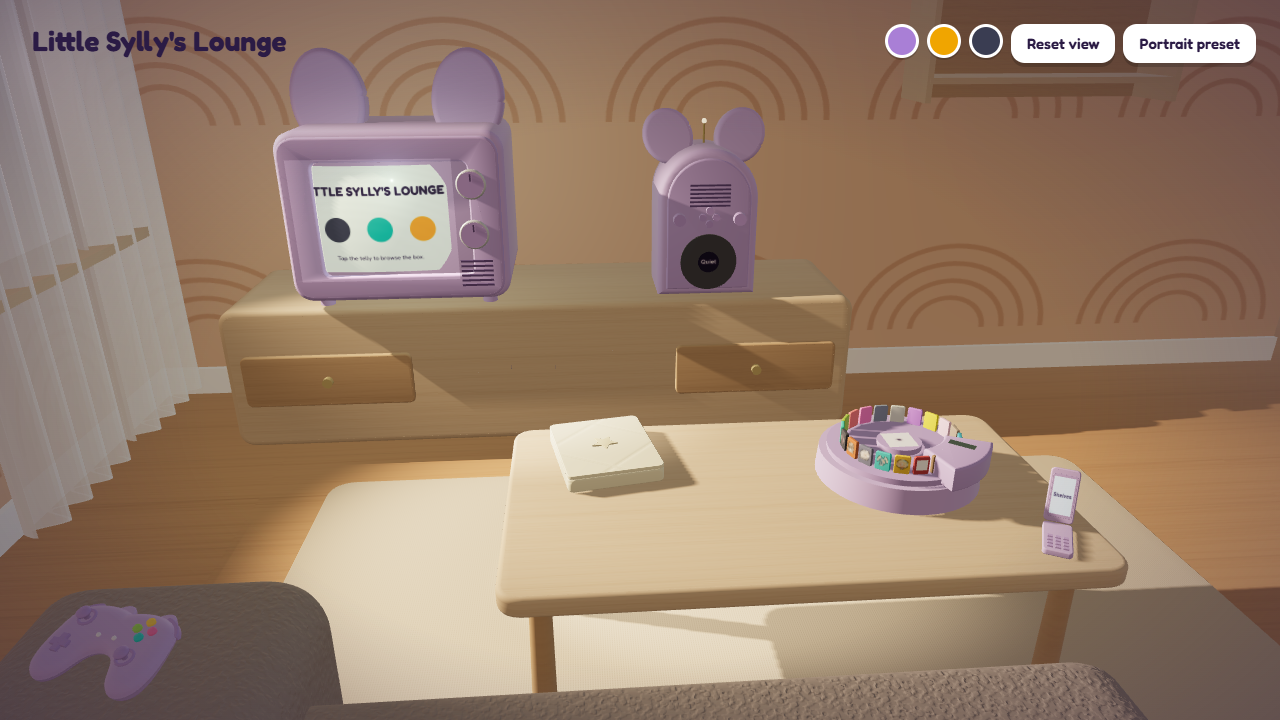
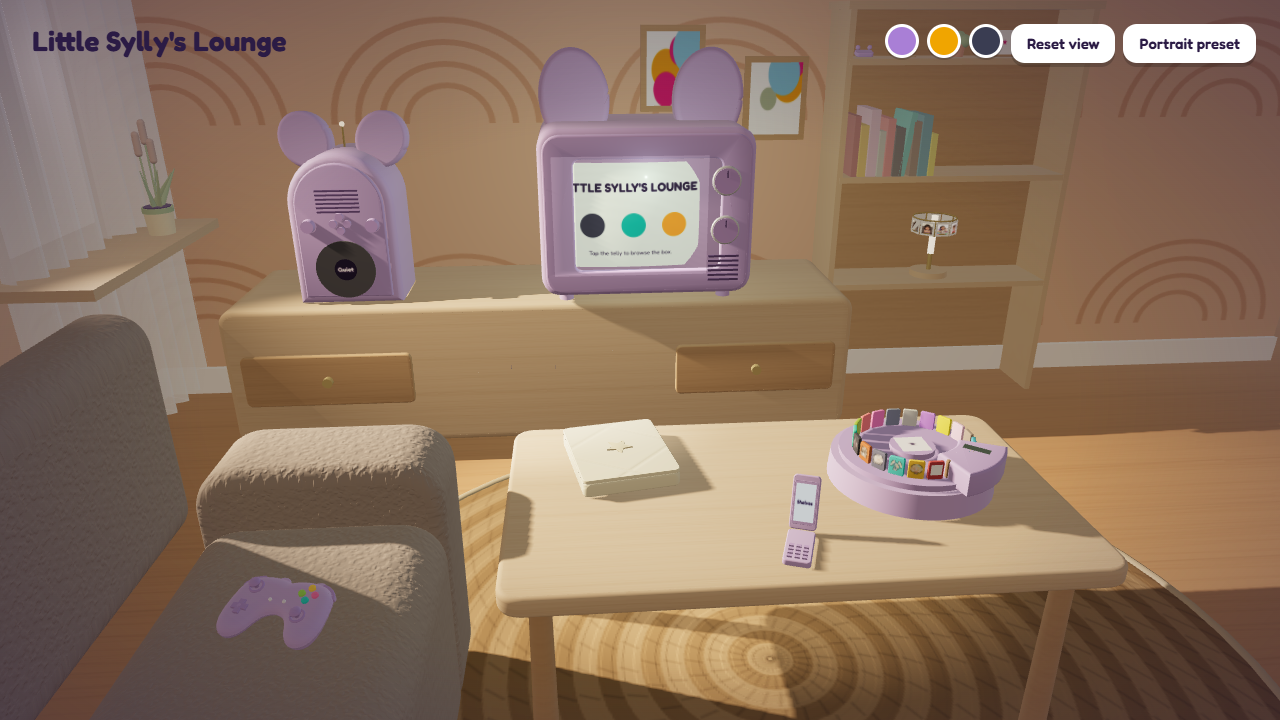
feat(premium): re-block step 3 — owner's layout round: L couch, centred telly, low shelf, round rug, sill cattails
Acts on the four adjustments from the wide-shot review:

1. The telly swaps with the jukebox and now sits dead on the camera's
   view axis, so the thing the room is about is the thing in the middle.
   The jukebox moves left to balance the window and the plant.
2. The couch becomes an L: a main run along the bottom of frame and a
   return up the left whose seat carries the controller. No more
   controller-on-an-arm.
3. The bookshelf drops to a low floor-standing unit with the photo lamp
   on its LOWEST board, books above, trinket easter eggs on top. It had
   to come down much further than planned: measuring the frustum, the
   frame's top edge crosses the back wall at only ~1.37 m, so the
   previously planned boards would have sat outside the shot.
4. The phone moves to the middle of the table, which is where the
   Shelves door and Scene B's hero both want it.

Plus the round braided-jute rug and the sill cattails. Cattails over the
fly-trap because the left side is read as a silhouette against a backlit
curtain, where three tall spikes survive and a blobby mass does not. The
sill had to protrude past the curtain line, or the drapes hang in front
of the plant and the flair never appears at all.

348 Node checks, 17 visual checks. Mean luma 123, contrast 2.5x.

diff --git a/wip/premium/prm-room.js b/wip/premium/prm-room.js
@@ -1,6 +1,6 @@
 // ═══════════════════════════════════════════════════════════════════════════
 // prm-room.js — Premium lounge: the shell. Walls, floor, rug, furniture, the
-// curtain, the floor lamp, two prints. Spec § 6. Everything is geometry; every
+// curtain, the window, the sill plant, two prints. Spec § 6 + the 2026-09-19 re-block. Everything is geometry; every
 // patterned surface is a canvas texture from prm-lib. Fixed warm neutrals —
 // never the player's colours (the props are what pop).
 // Pure: takes lib, touches no DOM. Nothing here is a pick target.
@@ -12,7 +12,7 @@
     /* The re-block (spec 2026-09-19 § 3.1): a corner about 3.2 m wide and 1.9 m
        deep, the bench a metre behind a table that sits right of centre, and a
        seat we are sitting on. Every prop reads its surface from here. */
-    const R = { floorY: 0, backZ: -1.55, leftX: -1.6, benchZ: -1.15, benchTopY: 0.52, tableTopY: 0.44, tableX: 0.35, tableZ: 0.05, armTopY: 0.58, seatTopY: 0.47, sillTopY: 0.68, sideTableTopY: 0.565 };
+    const R = { floorY: 0, backZ: -1.55, leftX: -1.6, benchZ: -1.15, benchTopY: 0.52, tableTopY: 0.44, tableX: 0.35, tableZ: 0.05, armTopY: 0.58, seatTopY: 0.47, sillTopY: 0.68 };
     const g = new THREE.Group(); g.name = 'room';
     const add = (name, geo, mat, pos, rot, o = {}) => {
       const m = new THREE.Mesh(geo, mat); m.name = name; m.position.set(pos[0], pos[1], pos[2]);
@@ -29,8 +29,9 @@
     add('cornice', new THREE.BoxGeometry(5.6, 0.06, 0.04), mats.skirting, [0.0, 3.17, R.backZ + 0.02]);
     add('floor', new THREE.PlaneGeometry(9, 9), mats.floor, [0.5, 0, 0.5], FLAT);
 
-    // rug — receives every table prop's contact shadow (round in Task 3)
-    add('rug', moulded(2.3, 1.7, 0.012, 0.08, { bevel: 0.004 }), mats.rug, [R.tableX, 0.006, R.tableZ], FLAT);
+    // rug — round braided jute under the table; receives every table prop's contact shadow
+    add('rug', new THREE.CylinderGeometry(1.05, 1.05, 0.012, 48), mats.rug, [R.tableX, 0.006, R.tableZ]);
+    add('rugEdge', new THREE.TorusGeometry(1.05, 0.012, 8, 64), mats.rugEdge, [R.tableX, 0.008, R.tableZ], FLAT);
 
     // coffee table (top surface = tableTopY), right of centre so it is not stacked under the telly
     add('tableTop', moulded(1.1, 0.62, 0.04, 0.05), mats.birch, [R.tableX, R.tableTopY - 0.02, R.tableZ], FLAT, { cast: true });
@@ -48,44 +49,96 @@
     add('deck', moulded(0.42, 0.1, 0.3, 0.015), mats.cream, [BX, 0.30, R.benchZ + 0.06], null, { cast: true });
     for (let i = 0; i < 4; i++) add('deckKey' + i, new THREE.BoxGeometry(0.03, 0.012, 0.02), mats.plum, [BX - 0.12 + i * 0.045, 0.315, R.benchZ + 0.215]);
 
-    // bookshelf unit, wall-mounted right of the bench; books + trinkets are props (prmBuildShelf)
-    const S = { x: 1.55, w: 0.85, d: 0.22, ys: [1.12, 1.48, 1.84], side: 0.02 }; S.z = R.backZ + S.d / 2;
-    add('shelfBack', new THREE.BoxGeometry(S.w, 0.9, 0.01), mats.birchDark, [S.x, 1.5, R.backZ + 0.005]);
-    add('shelfSideL', new THREE.BoxGeometry(S.side, 0.9, S.d), mats.birch, [S.x - S.w / 2, 1.5, S.z], null, { cast: true });
-    add('shelfSideR', new THREE.BoxGeometry(S.side, 0.9, S.d), mats.birch, [S.x + S.w / 2, 1.5, S.z], null, { cast: true });
+    /* Bookshelf: a LOW floor-standing unit right of the bench. The frame's top edge crosses the
+       back wall at only ~1.37 m from this camera, so a wall-mounted unit at chest height is simply
+       out of shot — every board has to live below that. The photo-carousel lamp takes the lowest
+       board (owner, 19 Sep 2026) where it is nearest the eye and a real tap target; books sit above
+       it and the trinket easter eggs top out the unit. */
+    const S = { x: 1.25, w: 0.80, d: 0.22, ys: [0.42, 0.80, 1.18], side: 0.02, h: 1.35 }; S.z = R.backZ + S.d / 2;
+    add('shelfBack', new THREE.BoxGeometry(S.w, S.h, 0.01), mats.birchDark, [S.x, S.h / 2, R.backZ + 0.005]);
+    add('shelfSideL', new THREE.BoxGeometry(S.side, S.h, S.d), mats.birch, [S.x - S.w / 2, S.h / 2, S.z], null, { cast: true });
+    add('shelfSideR', new THREE.BoxGeometry(S.side, S.h, S.d), mats.birch, [S.x + S.w / 2, S.h / 2, S.z], null, { cast: true });
     S.ys.forEach((y, i) => add('shelfBoard' + i, new THREE.BoxGeometry(S.w, 0.02, S.d), mats.birch, [S.x, y, S.z], null, { cast: true }));
+    add('shelfTop', new THREE.BoxGeometry(S.w + 0.04, 0.025, S.d + 0.02), mats.birch, [S.x, S.h, S.z], null, { cast: true });
 
-    // side table (top surface = sideTableTopY) — carries the photo-carousel lamp
-    add('sideTableTop', new THREE.CylinderGeometry(0.22, 0.22, 0.03, 32), mats.birch, [-1.7, R.sideTableTopY - 0.015, -2.1], null, { cast: true });
-    [0, 1, 2].forEach(i => { const a = i * 2 * Math.PI / 3;
-      add('sideTableLeg' + i, new THREE.CylinderGeometry(0.015, 0.018, 0.55, 12), mats.birchDark,
-          [-1.7 + Math.sin(a) * 0.15, 0.27, -2.1 + Math.cos(a) * 0.15], [Math.cos(a) * 0.12, 0, -Math.sin(a) * 0.12]); });
-
-    // the couch we are sitting on: a seat cushion along the bottom of frame (top = seatTopY) and the arm
-    // it belongs to, left of the table, reaching ahead of the seat so its front shows bottom-left
-    add('seat', moulded(1.3, 0.47, 1.0, 0.09), mats.fabric, [0.07, R.seatTopY - 0.235, 1.08], null, { cast: true });
-    add('couchArm', moulded(0.4, 0.58, 0.95, 0.09), mats.fabric, [-0.62, R.armTopY - 0.29, 0.925], null, { cast: true });
+    /* The L-shaped couch we are sitting on (owner, 19 Sep 2026). The MAIN run lies along the bottom
+       of frame — we sit on it, so its back is behind the camera and never seen. The RETURN runs up
+       the left; its seat carries the controller and its raised back is the frame's left border,
+       which is what pushes the controller in off the edge rather than leaving it stranded. */
+    const SEAT_H = 0.47, BACK_H = 0.41;
+    add('seat', moulded(1.5, SEAT_H, 0.95, 0.09), mats.fabric, [0.15, R.seatTopY - SEAT_H / 2, 1.30], null, { cast: true });
+    add('seatBack', moulded(1.5, BACK_H, 0.16, 0.06), mats.fabric, [0.15, R.seatTopY + BACK_H / 2, 1.87], null, { cast: true });
+    add('seatReturn', moulded(0.44, SEAT_H, 0.95, 0.09), mats.fabric, [-0.52, R.seatTopY - SEAT_H / 2, 0.62], null, { cast: true });
+    add('seatReturnBack', moulded(0.13, BACK_H, 0.95, 0.06), mats.fabric, [-0.805, R.seatTopY + BACK_H / 2, 0.62], null, { cast: true });
+    // the L's outer arm, capping the return's far end
+    add('couchArm', moulded(0.44, 0.58, 0.20, 0.09), mats.fabric, [-0.52, R.armTopY - 0.29, 0.06], null, { cast: true });
 
     // window on the LEFT wall — the visible source of the key. Centre sits toward the back so the
     // whole opening is in frame from the couch. Sill = a birch ledge the plant sits on (step 3).
-    const WZ = -0.90, WY = 1.25, WW = 0.75, WH = 1.1;
+    const WZ = -1.05, WY = 1.25, WW = 0.72, WH = 1.1;
     add('window', new THREE.PlaneGeometry(WW, WH), mats.window, [R.leftX + 0.005, WY, WZ], [0, Math.PI / 2, 0]);
-    add('sill', new THREE.BoxGeometry(0.16, 0.03, 0.9), mats.birch, [R.leftX + 0.08, R.sillTopY - 0.015, WZ], null, { cast: true });
+    /* The sill protrudes PAST the curtain line into the room, so the plant stands in front of the
+       drapes and reads as a silhouette against them. Sitting it flush with the wall put the curtain
+       in front of the plant and the whole left-side flair simply never appeared in frame. */
+    add('sill', new THREE.BoxGeometry(0.34, 0.03, 0.82), mats.birch, [R.leftX + 0.17, R.sillTopY - 0.015, WZ], null, { cast: true });
     /* Drawn, in two halves, a 0.10 m slit at about 40 % of the width (spec D5). The halves do NOT
        cast: the sun light passes through the curtain as a real drawn curtain glows and diffuses —
        the slit's bright stripe is its own narrow light in prm-scene.js, not a shadow cut-out. */
-    const CUR_W = 1.0, GAP = 0.10, halfW = (CUR_W - GAP) / 2, gapAt = WZ - CUR_W / 2 + CUR_W * 0.40;
+    const CUR_W = 0.88, GAP = 0.10, halfW = (CUR_W - GAP) / 2, gapAt = WZ - CUR_W / 2 + CUR_W * 0.40;
     add('curtainL', prmCurtainGeometry(lib, halfW, 2.2, 4), mats.curtain, [R.leftX + 0.12, 1.15, gapAt - GAP / 2 - halfW / 2], [0, Math.PI / 2, 0], { cast: false });
     add('curtainR', prmCurtainGeometry(lib, halfW, 2.2, 4), mats.curtain, [R.leftX + 0.12, 1.15, gapAt + GAP / 2 + halfW / 2], [0, Math.PI / 2, 0], { cast: false });
+
+    // the cattails on the sill (owner, 19 Sep 2026) — furniture: no pick id, no design role
+    const plant = prmBuildPlant(lib); plant.position.set(R.leftX + 0.25, R.sillTopY, WZ - 0.20); g.add(plant);
 
     // two prints on the shelf wall
     const print = (id, x, y, seed) => {
       add('print' + id, new THREE.BoxGeometry(0.22, 0.28, 0.02), mats.birchDark, [x, y, R.backZ + 0.01]);
       add('print' + id + 'Face', new THREE.PlaneGeometry(0.18, 0.24), new THREE.MeshStandardMaterial({ map: tex.abstract(seed), roughness: .9 }), [x, y, R.backZ + 0.021]);
     };
-    print('A', 1.35, 2.4, 1); print('B', 1.8, 2.3, 5);
+    print('A', 0.30, 1.15, 1); print('B', 0.66, 1.05, 5);
 
     g.userData.prmRoom = R; g.userData.prmShelf = S;
+    return g;
+  }
+
+  /* The sill plant: cattails. A cylinder pot with a collar, arcing blades, and three fuzzy heads
+     on thin stems. Chosen over the fly-trap for the same reason the whole left side exists — it is
+     read as a SILHOUETTE against a backlit curtain, and three tall spikes survive that where a
+     blobby mass becomes a smudge. Fixed colours, no pick id: it is furniture.
+     Group origin = the pot's base, so the caller drops it straight onto sillTopY. */
+  function prmBuildPlant(lib) {
+    const { THREE, mats } = lib; const g = new THREE.Group(); g.name = 'plant';
+    const mesh = (name, geo, mat, pos, rot, cast = true) => {
+      const m = new THREE.Mesh(geo, mat); m.name = name; m.position.set(pos[0], pos[1], pos[2]);
+      if (rot) m.rotation.set(rot[0], rot[1], rot[2]);
+      m.castShadow = cast; m.receiveShadow = true; g.add(m); return m;
+    };
+    const PH = 0.085;
+    mesh('pot', new THREE.CylinderGeometry(0.043, 0.038, PH, 24), mats.potCream, [0, PH / 2, 0]);
+    mesh('potCollar', new THREE.CylinderGeometry(0.045, 0.045, 0.016, 24), mats.leaf, [0, PH - 0.008, 0]);
+    mesh('soil', new THREE.CylinderGeometry(0.04, 0.04, 0.008, 20), mats.plum, [0, PH - 0.002, 0], null, false);
+
+    // blades — flattened tapered cones fanning out and arcing over
+    const bladeGeo = new THREE.CylinderGeometry(0.0015, 0.011, 0.13, 6); bladeGeo.translate(0, 0.065, 0); bladeGeo.scale(1, 1, 0.3);
+    for (let i = 0; i < 5; i++) {
+      const a = i / 5 * Math.PI * 2 + 0.5, lean = 0.32 + (i % 3) * 0.16;
+      mesh('blade' + i, bladeGeo, mats.leaf, [Math.cos(a) * 0.012, PH, Math.sin(a) * 0.012],
+           [Math.sin(a) * lean, -a, -Math.cos(a) * lean]);
+    }
+    // three cattails: a thin stem with a fuzzy head, each a different height
+    const headGeo = new THREE.CylinderGeometry(0.0105, 0.0105, 0.055, 12);
+    const capGeo = new THREE.SphereGeometry(0.0105, 12, 8);
+    [[0.0, 0.20], [-0.018, 0.165], [0.019, 0.145]].forEach(([dx, len], i) => {
+      const dz = i * 0.008 - 0.008;
+      mesh('stem' + i, new THREE.CylinderGeometry(0.0025, 0.003, len, 6), mats.leaf, [dx, PH + len / 2, dz], [0, 0, -dx * 1.6], false);
+      const head = mesh('cattail' + i, headGeo, mats.cattail, [dx * 1.16, PH + len + 0.026, dz]);
+      // rounded ends, so the head reads as a fuzzy sausage rather than a cut cylinder
+      [['capA', 0.0275], ['capB', -0.0275]].forEach(([n, y]) => {
+        const cap = new THREE.Mesh(capGeo, mats.cattail); cap.name = n; cap.position.y = y;
+        cap.castShadow = true; head.add(cap);
+      });
+    });
     return g;
   }
 
@@ -105,7 +158,7 @@
     return geo;
   }
 
-  const api = { prmBuildRoom, prmCurtainGeometry };
+  const api = { prmBuildRoom, prmCurtainGeometry, prmBuildPlant };
   if (typeof window !== 'undefined') window.PrmRoom = api;
   if (typeof module !== 'undefined') module.exports = api;
 })();

diff --git a/wip/premium/verify-prm-props.js b/wip/premium/verify-prm-props.js
@@ -58,9 +58,10 @@ ok(lib.THREE === THREE, 'lib carries the injected THREE');
 ['wood', 'wallpaper', 'weave', 'boucle', 'quilt'].forEach(k => {
   const t = lib.tex[k](); ok(t && t.isTexture && t.wrapS === THREE.RepeatWrapping, `tex.${k} returns a repeating texture`);
 });
+['braid', 'braidBump'].forEach(k => ok(lib.tex[k]().isTexture, `tex.${k} returns a texture`));
 ok(lib.tex.label('Hello').isTexture, 'tex.label returns a texture');
 ok(lib.tex.abstract(3).isTexture, 'tex.abstract returns a texture');
-['birch', 'birchDark', 'floor', 'wall', 'rug', 'fabric', 'cream', 'skirting', 'plum', 'black', 'chrome', 'brass', 'curtain', 'window', 'yellow', 'yellowDark', 'paper', 'sleeve']
+['birch', 'birchDark', 'floor', 'wall', 'rug', 'rugEdge', 'fabric', 'cream', 'skirting', 'plum', 'black', 'chrome', 'brass', 'curtain', 'window', 'yellow', 'yellowDark', 'paper', 'sleeve', 'potCream', 'leaf', 'cattail']
   .forEach(k => ok(lib.mats[k] && lib.mats[k].isMaterial, `mats.${k} exists`));
 ok(lib.mats.emissive('#ff0000', 2).emissiveIntensity === 2, 'mats.emissive takes an intensity');
 {
@@ -90,15 +91,29 @@ eq(room.name, 'room', 'room group is named');
 const roomNames = new Set(); room.traverse(o => { if (o.name) roomNames.add(o.name); });
 ['wallBack', 'wallLeft', 'skirtingBack', 'skirtingLeft', 'cornice', 'floor', 'rug', 'tableTop', 'tableLeg0', 'tableLeg3',
  'bench', 'benchDrawerL', 'benchDrawerR', 'benchKnobL', 'benchKnobR', 'deck', 'deckKey3', 'shelfBack', 'shelfSideL', 'shelfSideR',
- 'shelfBoard0', 'shelfBoard1', 'shelfBoard2', 'sideTableTop', 'sideTableLeg2', 'couchArm', 'seat', 'window', 'curtainL', 'curtainR',
- 'sill', 'printA', 'printAFace', 'printB', 'printBFace']
+ 'shelfBoard0', 'shelfBoard1', 'shelfBoard2', 'shelfTop', 'couchArm', 'seat', 'seatBack', 'seatReturn', 'seatReturnBack',
+ 'rugEdge', 'plant', 'window', 'curtainL', 'curtainR', 'sill', 'printA', 'printAFace', 'printB', 'printBFace']
   .forEach(n => ok(roomNames.has(n), `room has ${n}`));
 {
+  const R = room.userData.prmRoom;
   let picks = 0; room.traverse(o => { if (o.userData.prmId) picks++; });
   eq(picks, 0, 'nothing in the room shell is a pick target');
   const rug = room.getObjectByName('rug'); ok(rug.receiveShadow, 'rug receives shadow');
+  ok(rug.geometry.type === 'CylinderGeometry', 'rug is round');
+  { const rb = new THREE.Box3().setFromObject(rug); near((rb.min.x + rb.max.x) / 2, R.tableX, 0.02, 'rug is centred under the table'); }
+  ok(!roomNames.has('sideTableTop'), 'the side table is gone');
+  const plant = room.getObjectByName('plant'); ok(plant && plant.isGroup, 'plant is a group on the shell');
+  { let blades = 0, heads = 0;
+    plant.traverse(o => { if (/^blade\d+$/.test(o.name)) blades++; if (/^cattail\d+$/.test(o.name)) heads++; });
+    ok(blades >= 4, `plant has blades (${blades})`); eq(heads, 3, 'three cattail heads');
+    ok(plant.getObjectByName('pot') && plant.getObjectByName('soil'), 'plant has a pot and soil');
+    const pb = new THREE.Box3().setFromObject(plant);
+    near(pb.min.y, R.sillTopY, 0.01, 'plant rests on the sill');
+    ok(pb.min.x > R.leftX && pb.max.x < R.leftX + 0.35, 'plant sits on the sill, not in the wall');
+    ok(pb.max.y - pb.min.y > 0.16, 'the cattails stand tall enough to read as a silhouette');
+    let painted = 0; plant.traverse(o => { if (o.isMesh && o.material.userData.prmRole) painted++; });
+    eq(painted, 0, 'the plant is furniture - no design role'); }
   const floor = room.getObjectByName('floor'); ok(floor.receiveShadow, 'floor receives shadow');
-  const R = room.userData.prmRoom;
   ['floorY', 'backZ', 'leftX', 'benchZ', 'benchTopY', 'tableTopY', 'tableX', 'tableZ', 'armTopY', 'seatTopY'].forEach(k => ok(typeof R[k] === 'number', `prmRoom.${k} is a number`));
   near(R.benchTopY, 0.52, 0.001, 'bench top height'); near(R.tableTopY, 0.44, 0.001, 'table top height');
   // the re-block (spec 2026-09-19 § 3.1): a corner, not a hall
@@ -108,15 +123,29 @@ const roomNames = new Set(); room.traverse(o => { if (o.name) roomNames.add(o.na
   ok(R.tableX > 0.2, `table is right of centre (tableX ${R.tableX})`);
   ok(R.seatTopY > R.tableTopY && R.seatTopY < R.armTopY, 'seat cushion sits between table top and arm top');
   const S = room.userData.prmShelf; eq(S.ys.length, 3, 'three shelf boards');
+  ok(S.ys[2] < 1.25, `the top board is inside the frame (ys[2] ${S.ys[2]})`);
+  ok(S.ys[0] < 0.55, `the lowest board is low enough to read (ys[0] ${S.ys[0]})`);
+  { const unit = new THREE.Box3().setFromObject(room.getObjectByName('shelfSideL'));
+    ok(unit.min.y < 0.05, 'the shelf unit stands on the floor'); }
   room.updateMatrixWorld(true);
   const bb = new THREE.Box3().setFromObject(room.getObjectByName('tableTop'));
   near(bb.max.y, R.tableTopY, 0.001, 'tableTop surface equals prmRoom.tableTopY');
   const arm = new THREE.Box3().setFromObject(room.getObjectByName('couchArm'));
   near(arm.max.y, R.armTopY, 0.002, 'couchArm top equals prmRoom.armTopY');
+  // the L-shaped couch (owner, 19 Sep 2026): a main run along the bottom of frame and a short
+  // return up the left, whose seat carries the controller and whose back is the frame's left border
   const seat = new THREE.Box3().setFromObject(room.getObjectByName('seat'));
   near(seat.max.y, R.seatTopY, 0.002, 'seat top equals prmRoom.seatTopY');
   ok(seat.min.z > R.tableZ + 0.31 - 0.02, 'seat front does not run under the table');
-  ok(arm.min.z < seat.min.z, 'the arm reaches ahead of the seat (a real couch arm)');
+  const ret = new THREE.Box3().setFromObject(room.getObjectByName('seatReturn'));
+  near(ret.max.y, R.seatTopY, 0.002, 'the return seat is the same height as the main run');
+  ok(ret.max.x < seat.max.x && ret.min.z < seat.min.z, 'the return runs up the LEFT and reaches further back than the main run (an L)');
+  ok(ret.max.z > seat.min.z, 'the two runs meet at the corner');
+  const retBack = new THREE.Box3().setFromObject(room.getObjectByName('seatReturnBack'));
+  ok(retBack.max.x <= ret.min.x + 0.01, 'the return back sits outside its seat, on the left');
+  ok(retBack.min.y >= R.seatTopY - 0.01 && retBack.max.y > R.seatTopY + 0.3, 'the return back rises well above the seat');
+  const mainBack = new THREE.Box3().setFromObject(room.getObjectByName('seatBack'));
+  ok(mainBack.min.z > seat.max.z - 0.02, 'the main run back sits behind it (behind the camera)');
   // the window is on the LEFT wall, drawn, with a slit (spec 2026-09-19 § 3.2, D4/D5)
   ok(typeof R.sillTopY === 'number', 'prmRoom.sillTopY is a number');
   ok(!roomNames.has('floorLampShade') && !roomNames.has('floorLampStem'), 'the floor lamp is gone');
@@ -268,6 +297,12 @@ section('lamp-shelf');
   const shelf = built.shelfContents; ok(shelf, 'shelf contents build');
   let books = 0, trinkets = 0, picks = 0; shelf.traverse(o => { if (/^book\d+$/.test(o.name)) books++; if (/^trinket-/.test(o.name)) trinkets++; if (o.userData.prmId) picks++; });
   eq(books, 10, 'ten books'); eq(trinkets, 5, 'five unlocked trinkets'); eq(picks, 0, 'nothing on the shelf is interactive');
+  { const SS = room.userData.prmShelf;
+    const bookBox = new THREE.Box3().setFromObject(shelf.getObjectByName('book0'));
+    const trinketBox = new THREE.Box3().setFromObject(shelf.getObjectByName('trinket-mini-controller'));
+    near(bookBox.min.y, SS.ys[1] + 0.01, 0.02, 'books stand on the MIDDLE board');
+    near(trinketBox.min.y, SS.ys[2] + 0.01, 0.03, 'trinkets are easter eggs on the TOP board');
+    near(PrmProps.PRM_PLACES.lamp.pos[1], SS.ys[0] + 0.01, 0.02, 'the photo lamp sits on the LOWEST board, where it reads'); }
   const locked = PrmProps.prmBuildShelf(lib, PrmProps.PRM_TRINKETS_V1.map((t, i) => Object.assign({}, t, { unlocked: i !== 2 })), GAMES, room.userData.prmShelf);
   let t2 = 0; locked.traverse(o => { if (/^trinket-/.test(o.name)) t2++; }); eq(t2, 4, 'a locked trinket leaves its slot empty');
   const S = room.userData.prmShelf; shelf.updateMatrixWorld(true); const bb = new THREE.Box3().setFromObject(shelf);
@@ -288,17 +323,24 @@ section('contracts');
   // footprints: each prop, placed, sits inside its surface's region (spec § 14 check 1)
   const place = (id) => { const g = built[id], p = PrmProps.PRM_PLACES[id]; g.position.set(...p.pos); if (p.rot) g.rotation.set(...p.rot); g.updateMatrixWorld(true); return new THREE.Box3().setFromObject(g); };
   const inside = (bb, r) => bb.min.x >= r.x[0] && bb.max.x <= r.x[1] && bb.min.z >= r.z[0] && bb.max.z <= r.z[1] && bb.min.y >= r.y[0] - 0.01;
-  const R = room.userData.prmRoom;
+  const R = room.userData.prmRoom, S = room.userData.prmShelf;
   const REGIONS = {
-    tv:        { x: [R.tableX - 1.30, R.tableX - 0.50], z: [R.benchZ - 0.30, R.benchZ + 0.30], y: [R.benchTopY, 1.5] },
-    jukebox:   { x: [R.tableX - 0.30, R.tableX + 0.30], z: [R.benchZ - 0.30, R.benchZ + 0.30], y: [R.benchTopY, 1.5] },
+    tv:        { x: [R.tableX - 0.60, R.tableX + 0.30], z: [R.benchZ - 0.30, R.benchZ + 0.30], y: [R.benchTopY, 1.5] },
+    jukebox:   { x: [R.tableX - 1.50, R.tableX - 0.60], z: [R.benchZ - 0.30, R.benchZ + 0.30], y: [R.benchTopY, 1.5] },
     dial:      { x: [R.tableX - 0.57, R.tableX + 0.57], z: [R.tableZ - 0.33, R.tableZ + 0.33], y: [R.tableTopY, 0.8] },
     binder:    { x: [R.tableX - 0.57, R.tableX + 0.57], z: [R.tableZ - 0.33, R.tableZ + 0.33], y: [R.tableTopY, 0.8] },
     phone:     { x: [R.tableX - 0.57, R.tableX + 0.57], z: [R.tableZ - 0.33, R.tableZ + 0.33], y: [R.tableTopY, 0.8] },
-    controller:{ x: [-1.05, -0.35], z: [ 0.30,  1.10], y: [R.armTopY, 1.0] },
-    lamp:      { x: [-1.95, -1.45], z: [-2.35, -1.85], y: [R.sideTableTopY, 1.0] },
+    controller:{ x: [-0.85, -0.15], z: [ 0.20,  0.70], y: [R.seatTopY, 1.0] },
+    lamp:      { x: [S.x - 0.30, S.x + 0.30], z: [R.backZ, R.backZ + 0.32], y: [S.ys[0], 1.0] },
   };
   Object.entries(REGIONS).forEach(([id, r]) => { const bb = place(id); ok(inside(bb, r), `${id} sits inside its surface region (x ${bb.min.x.toFixed(2)}..${bb.max.x.toFixed(2)}, z ${bb.min.z.toFixed(2)}..${bb.max.z.toFixed(2)}, y ${bb.min.y.toFixed(2)})`); });
+  // the telly is the focus: centred horizontally, the jukebox left of it (owner, 19 Sep 2026)
+  { const tvB = place('tv'), jbB = place('jukebox');
+    const tvMid = (tvB.min.x + tvB.max.x) / 2, jbMid = (jbB.min.x + jbB.max.x) / 2;
+    ok(Math.abs(tvMid - 0.16) < 0.18, `the telly sits on the camera view axis (mid x ${tvMid.toFixed(2)})`);
+    ok(jbMid < tvMid - 0.5, 'the jukebox sits well to the left of the telly'); }
+  { const ph = new THREE.Box3().setFromObject(built['phone']);
+    ok(Math.abs((ph.min.x + ph.max.x) / 2 - R.tableX) < 0.22, 'the phone sits near the middle of the table (the Shelves door)'); }
   // table props must not overlap each other
   const boxes = ['dial', 'binder', 'phone'].map(id => [id, new THREE.Box3().setFromObject(built[id])]);
   for (let i = 0; i < boxes.length; i++) for (let j = i + 1; j < boxes.length; j++) ok(!boxes[i][1].intersectsBox(boxes[j][1]), `${boxes[i][0]} and ${boxes[j][0]} do not overlap`);

diff --git a/wip/premium/prm-lib.js b/wip/premium/prm-lib.js
@@ -70,6 +70,28 @@
         for (let i = 0; i < 400; i++) { x.fillStyle = r() > .5 ? '#a0a0a0' : '#606060'; x.beginPath(); x.arc(r() * 128, r() * 128, 2 + r() * 3, 0, 7); x.fill(); }
         return wrap(c, rx, ry, true);
       },
+      /* A round braided rug: concentric rope rings with a diagonal twist hatch. Drawn once on a
+         square canvas; a cylinder cap's UVs are planar, so the centre lands under the table. */
+      braid(base = '#a88a63', tone = '#94764f', size = 512, rings = 22) {
+        const c = makeCanvas(size, size), x = c.getContext('2d'), cx = size / 2, step = (size / 2) / rings;
+        x.fillStyle = base; x.fillRect(0, 0, size, size);
+        for (let i = 0; i < rings; i++) {
+          const r = (i + 0.5) * step;
+          x.strokeStyle = i % 2 ? tone : base; x.lineWidth = step * 0.9; x.beginPath(); x.arc(cx, cx, r, 0, Math.PI * 2); x.stroke();
+          x.strokeStyle = 'rgba(0,0,0,0.10)'; x.lineWidth = 1.5;
+          const n = Math.max(24, Math.round(r / 3));
+          for (let k = 0; k < n; k++) { const a = k / n * Math.PI * 2;
+            x.beginPath(); x.moveTo(cx + Math.cos(a) * (r - step * 0.4), cx + Math.sin(a) * (r - step * 0.4));
+            x.lineTo(cx + Math.cos(a + 0.06) * (r + step * 0.4), cx + Math.sin(a + 0.06) * (r + step * 0.4)); x.stroke(); }
+        }
+        return flat(c);
+      },
+      braidBump(size = 512, rings = 22) {
+        const c = makeCanvas(size, size), x = c.getContext('2d'), cx = size / 2, step = (size / 2) / rings;
+        x.fillStyle = '#808080'; x.fillRect(0, 0, size, size);
+        for (let i = 0; i < rings; i++) { x.strokeStyle = i % 2 ? '#a8a8a8' : '#585858'; x.lineWidth = step * 0.5; x.beginPath(); x.arc(cx, cx, (i + 0.5) * step, 0, Math.PI * 2); x.stroke(); }
+        const t = new THREE.CanvasTexture(c); t.encoding = THREE.LinearEncoding; return t;
+      },
       quilt(rx = 4, ry = 5) {
         const c = makeCanvas(128, 128), x = c.getContext('2d');
         x.fillStyle = '#909090'; x.fillRect(0, 0, 128, 128); x.strokeStyle = '#404040'; x.lineWidth = 5;
@@ -109,7 +131,14 @@
       wall:       std({ map: tex.wallpaper(), roughness: .95 }),
       /* Braided-jute oat (spec 2026-09-19 § 3.2): the soft oat it replaced was still a
          bright field across the bottom third. Round geometry + braid texture in step 3. */
-      rug:        std({ color: '#a88a63', bumpMap: tex.weave(), bumpScale: .004, roughness: .95 }),
+      rug:        std({ map: tex.braid(), bumpMap: tex.braidBump(), bumpScale: .006, roughness: .95 }),
+      rugEdge:    std({ color: '#8d7148', roughness: .95 }),
+      /* The sill cattails — fixed furniture colours (never a design role). A warm pot and sage
+         blades keep the plant out of the props' hue space, so the only saturated things in frame
+         are still the player's own. */
+      potCream:   std({ color: '#e8ce8e', roughness: .75 }),
+      leaf:       std({ color: '#7f9c63', roughness: .9, side: THREE.DoubleSide }),
+      cattail:    std({ color: '#a8836f', roughness: .95 }),
       /* The front plane: deliberately soft and DARK at the edge (original spec § 6) — it frames
          the shot and is the room's one genuinely shadowed mass. */
       fabric:     std({ color: '#6b5a4d', bumpMap: tex.boucle(), bumpScale: .006, roughness: 1 }),

diff --git a/wip/premium/prm-props.js b/wip/premium/prm-props.js
@@ -31,13 +31,13 @@
      them in step by hand; the harness footprint check is what catches drift.
      A builder's group origin is its resting base. */
   const PRM_PLACES = {
-    tv:            { pos: [-0.55, 0.52, -1.10] },
-    jukebox:       { pos: [ 0.35, 0.52, -1.10] },
-    dial:          { pos: [ 0.60, 0.44,  0.00] },
-    binder:        { pos: [ 0.00, 0.44, -0.10], rot: [0, 0.18, 0] },
-    phone:         { pos: [ 0.80, 0.44,  0.27], rot: [0, -0.5, 0] },
-    controller:    { pos: [-0.62, 0.58,  0.62], rot: [0, -0.35, 0] },
-    lamp:          { pos: [-1.70, 0.565, -2.10] },
+    tv:            { pos: [ 0.16, 0.52, -1.10] },                      // dead on the camera's view axis — the telly is the focus
+    jukebox:       { pos: [-0.72, 0.52, -1.10] },                      // left, balancing the window and the sill plant
+    dial:          { pos: [ 0.62, 0.44,  0.02] },
+    binder:        { pos: [ 0.03, 0.44, -0.08], rot: [0, 0.18, 0] },
+    phone:         { pos: [ 0.33, 0.44,  0.26], rot: [0, -0.35, 0] },  // front-centre: the Shelves door, and Scene B's hero
+    controller:    { pos: [-0.50, 0.47,  0.42], rot: [0, -0.30, 0] },  // on the couch return's seat, not on an arm
+    lamp:          { pos: [ 1.25, 0.43, -1.44] },                      // the shelf's LOWEST board
     shelfContents: { pos: [0, 0, 0] },
   };
   /* Builders register here, one per task: id → (ctx, shared) => Group. */
@@ -421,7 +421,7 @@
   function prmBuildShelf(lib, trinkets, games, S) {
     const { THREE, mats } = lib; const g = new THREE.Group();
     const heights = [0.2, 0.17, 0.22, 0.15, 0.19, 0.16, 0.21, 0.18, 0.2, 0.14];
-    let x = S.x - S.w / 2 + S.side + 0.02; const y = S.ys[1] + 0.01;
+    let x = S.x - S.w / 2 + S.side + 0.02; const y = S.ys[1] + 0.01;   // books on the MIDDLE board (the lamp owns the lowest)
     heights.forEach((h, i) => {
       const col = new THREE.Color(games[(i * 3) % games.length].brandHex).lerp(new THREE.Color('#8f8a85'), 0.5), t = 0.02 + (i % 3) * 0.006;
       const b = prmMesh(THREE, new THREE.BoxGeometry(t, h, 0.16), new THREE.MeshStandardMaterial({ color: col, roughness: .8 }), 'book' + i, [x + t / 2, y + h / 2, S.z + 0.02]);
@@ -439,7 +439,7 @@
         m.add(prmMesh(THREE, new THREE.PlaneGeometry(0.058, 0.078), new THREE.MeshStandardMaterial({ map: lib.tex.label('★', '#FAFAF9', '#E9408E', 128, 160), roughness: .9 }), 'printFace', [0, 0.045 + 0.0006, 0.0041], [-0.15, 0, 0], false)); return m; },
       stack() { const m = new THREE.Group(); [3, 7, 12].forEach((gi, i) => m.add(prmMesh(THREE, new THREE.BoxGeometry(0.08, 0.02, 0.06), new THREE.MeshStandardMaterial({ color: games[gi % games.length].brandHex, roughness: .6 }), 'box' + i, [0, 0.01 + i * 0.021, 0], [0, (i - 1) * 0.15, 0]))); return m; },
     };
-    const pitch = S.w / 5, y2 = S.ys[2] + 0.01;
+    const pitch = S.w / 5, y2 = S.ys[2] + 0.01;   // trinket easter eggs top out the unit
     trinkets.forEach((t, i) => {
       if (!t.unlocked || !mini[t.builder]) return;
       const tg = mini[t.builder](); tg.name = 'trinket-' + t.id; tg.position.set(S.x - S.w / 2 + pitch * (i + 0.5), y2, S.z); g.add(tg);

diff --git a/wip/premium/prm-scene.js b/wip/premium/prm-scene.js
@@ -82,7 +82,7 @@
     slit.position.set(RM.leftX - 0.3, 1.7, -0.62); slit.target.position.set(0.25, 0.02, -0.25);
     scene.add(slit, slit.target);
     const fill = new THREE.HemisphereLight('#b9c4cf', '#c9a98a', 0.035); fill.name = 'fill'; scene.add(fill);
-    const tvLight = new THREE.PointLight('#bfe6d0', 0.6, 2.5, 2); tvLight.name = 'tvLight'; tvLight.position.set(-0.55, 0.9, -0.85); scene.add(tvLight);
+    const tvLight = new THREE.PointLight('#bfe6d0', 0.6, 2.5, 2); tvLight.name = 'tvLight'; tvLight.position.set(0.16, 0.9, -0.85); scene.add(tvLight);
     const glow = new THREE.PointLight('#ffd0a0', 0.45, 1.2, 2); glow.name = 'windowGlow'; glow.position.set(RM.leftX + 0.25, 1.2, -0.9); scene.add(glow);
     const dialLight = new THREE.PointLight(design.buttons || '#ffffff', 0.25, 0.6, 2); dialLight.name = 'dialLight'; dialLight.position.set(0.60, 0.5, 0.0); scene.add(dialLight);
     const attract = P.prmAttract(makeCanvas, host.games);
